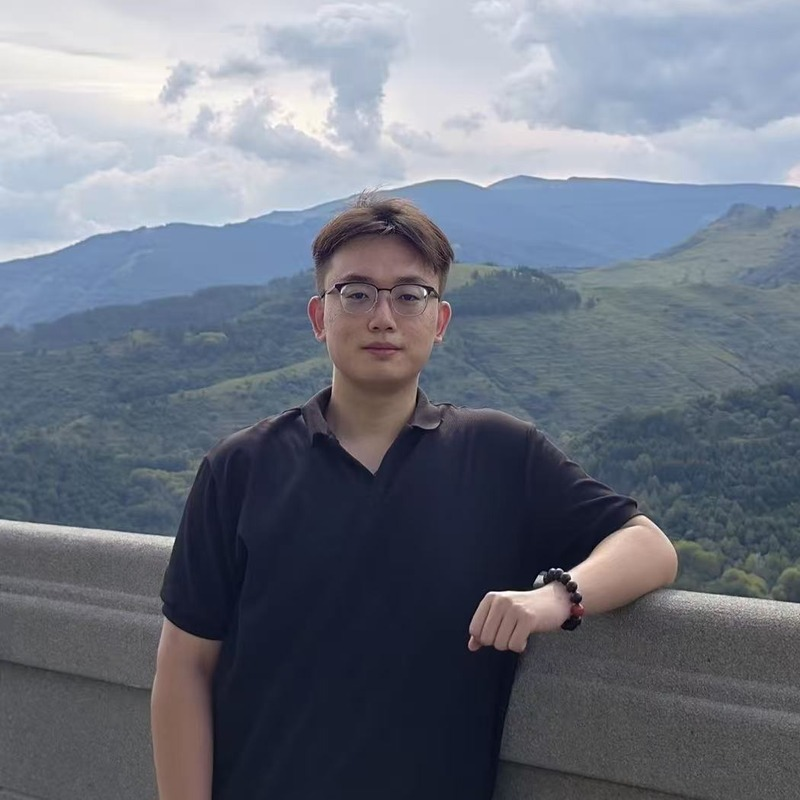
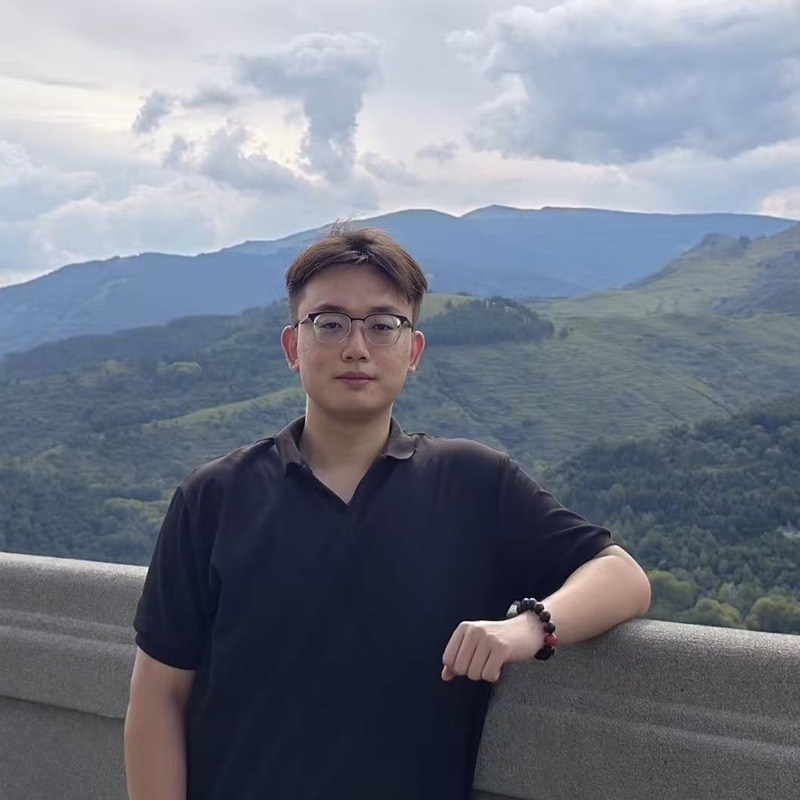
Shift portrait slightly left and down

diff --git a/index.html b/index.html
@@ -30,7 +30,7 @@
   <body>
     <div class="wrapper">
       <header>
-        <span class="image avatar"><img src="avatar-2-profile.jpg?v=1" alt="Zhan Gao" width="160" height="160" loading="eager" decoding="async"></span>
+        <span class="image avatar"><img src="avatar-2-profile.jpg?v=2" alt="Zhan Gao" width="160" height="160" loading="eager" decoding="async"></span>
         <h1 class="name-cycle" aria-label="Zhan Gao · 高展">
           <span class="name-en" aria-hidden="true">Zhan Gao</span>
           <span class="name-zh" lang="zh-CN" aria-hidden="true">高展</span>
